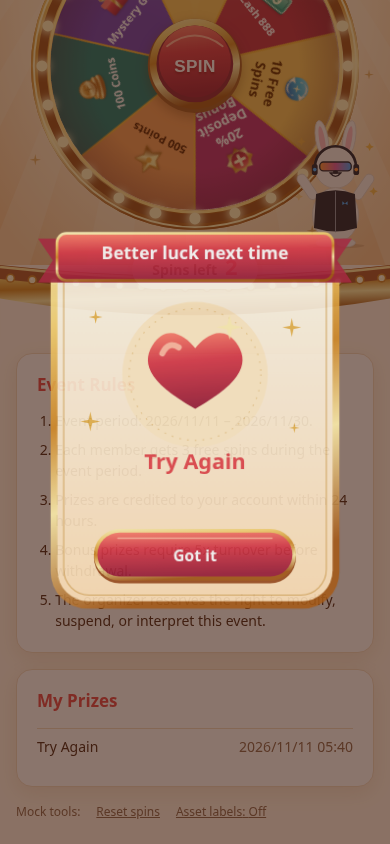
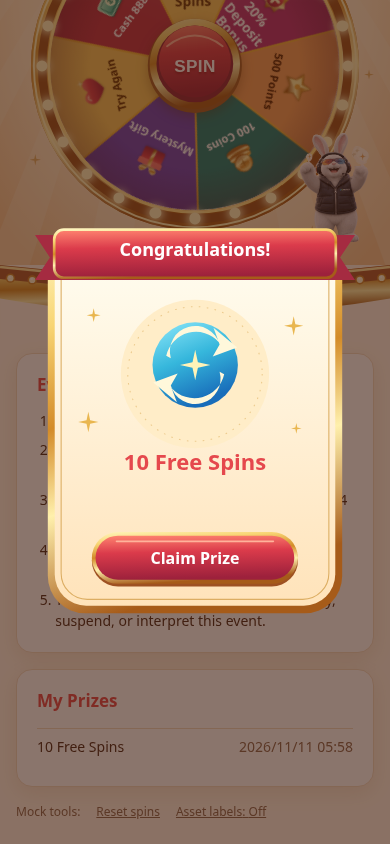
art: verify all five bunny animations and update delivery checklist

diff --git a/event/20261111_lucky_wheel/source/mascot-preview.html b/event/20261111_lucky_wheel/source/mascot-preview.html
@@ -1,0 +1,1 @@
+<!doctype html><html lang="zh-Hant"><meta charset="utf-8"><meta name="viewport" content="width=device-width,initial-scale=1"><title>新版兔子 GIF 預覽</title><style>*{box-sizing:border-box}body{margin:0;background:#fff6ea;color:#18304a;font:16px/1.6 system-ui}main{max-width:1100px;margin:auto;padding:32px}h1{margin:0}header p{color:#536777}section{display:grid;grid-template-columns:repeat(auto-fit,minmax(260px,1fr));gap:20px}article{padding:20px;background:white;border:1px solid #ecdbc8;border-radius:20px;text-align:center}img{display:block;width:240px;max-width:100%;height:300px;object-fit:contain;margin:auto;background:#ffe6cc;border-radius:12px}h2{font-size:18px}a{color:#176697}small{display:block;color:#536777}</style><main><header><h1>Mootech Bunny · 新版動態預覽</h1><p>依已採用的角色設定圖製作。每段 400×500、48 幀、2 秒循環；24 個生成關鍵幀經光流補幀至平均 24fps。</p></header><section><article><h2>待機 1｜呼吸、眨眼</h2><img src="../assets/img/mascot/idle-1.gif" alt="待機 1｜呼吸、眨眼"><small>idle-1.gif</small><a href="mascot-compare/idle-1.png">角色比對圖</a> · <a href="../assets/img/mascot/idle-1.gif" download>下載 GIF</a></article><article><h2>待機 2｜側耳聆聽</h2><img src="../assets/img/mascot/idle-2.gif" alt="待機 2｜側耳聆聽"><small>idle-2.gif</small><a href="mascot-compare/idle-2.png">角色比對圖</a> · <a href="../assets/img/mascot/idle-2.gif" download>下載 GIF</a></article><article><h2>待機 3｜揮手、扶眼鏡</h2><img src="../assets/img/mascot/idle-3.gif" alt="待機 3｜揮手、扶眼鏡"><small>idle-3.gif</small><a href="mascot-compare/idle-3.png">角色比對圖</a> · <a href="../assets/img/mascot/idle-3.gif" download>下載 GIF</a></article><article><h2>抽獎中｜握拳期待</h2><img src="../assets/img/mascot/spinning.gif" alt="抽獎中｜握拳期待"><small>spinning.gif</small><a href="mascot-compare/spinning.png">角色比對圖</a> · <a href="../assets/img/mascot/spinning.gif" download>下載 GIF</a></article><article><h2>結果｜歡呼、比讚</h2><img src="../assets/img/mascot/result.gif" alt="結果｜歡呼、比讚"><small>result.gif</small><a href="mascot-compare/result.png">角色比對圖</a> · <a href="../assets/img/mascot/result.gif" download>下載 GIF</a></article></section></main></html>

diff --git a/event/20261111_lucky_wheel/ART_DELIVERY.md b/event/20261111_lucky_wheel/ART_DELIVERY.md
@@ -1,44 +1,49 @@
-# Lucky Wheel 美術製作：第一階段待審
+# Lucky Wheel 美術交付：新版動畫待審
 
-依據 `c126277` 的 DESIGN_TASKS.md 與 GPT_ASSET_BRIEF.md。此文件記錄本地交付，不代表 GitHub Pages 已更新。
+依最新版製作清單與使用者「用新版設定」指示製作。所有審核欄保留由業主填寫；這份文件不代表正式站已更新。
 
-## 目前交付
+## 交付內容
 
-- 靜態美術初版：21 張 SVG，位於 `assets/img/`；尺寸與原路徑相容。
-- 兔子角色設定圖：`reference/rabbit-turnaround.png`，供第一階段人工比對。
-- 尚未交付新版動態 GIF。最新需求明定角色設定圖通過後才可開始第二階段；前台保留原 SVG 佔位吉祥物。
+- 21 張靜態 SVG、三語標題與六組盤面色票：`6a34f07`。
+- 角色設定圖：`reference/rabbit-turnaround.png`，`6a34f07`；使用者已採用此設定。
+- 5 個透明循環 GIF，均 400×500、48 幀、2 秒；實測檔案 1.24–1.43MB。
+- 240 張含 alpha 的 PNG：`source/mascot-frames/`。
+- 10 張 1024×1536、3×4 原始序列圖：`source/mascot-sheets/`。
+- 5 張關鍵幀與角色設定圖並排比對：`source/mascot-compare/`。
+- 個別動態預覽：`source/mascot-preview.html`。
 
-較早以文字描述產出的動畫不符合新補上的官方服裝與品牌參考，已撤離活動與交付目錄，不應當成正式素材使用。
+| 動作 | GIF／PNG／比對圖 commit |
+|---|---|
+| idle-1：呼吸眨眼 | ee11803 |
+| idle-2：側耳聆聽 | 2b528e9 |
+| idle-3：揮手扶眼鏡 | 8124547 |
+| spinning：握拳期待 | afc4b6b |
+| result：歡呼比讚 | 8971110 |
 
-## 靜態素材
+每個動作包含 24 個生成關鍵幀，利用光流補幀為 48 幀。GIF 以 40／50ms 延遲組合達到平均 24fps；暖色 matte 為 #FFE6CC，落地基準 y=480，歡呼有刻意的 10px 離地位移。這些是 AI 生成序列，不是綁骨骼的 3D 動畫；配件小字、毛髮與姿態可能有細微逐幀變動，需以動態預覽做視覺審核。
 
-舞台背景／地板、英韓泰主標、光束、金框、光澤、指針、抽獎鍵、結果底圖、結果按鈕、音效開關 2 張、獎項圖示 7 張。
+重建方式：`python tools/build_mascot.py <idle-1|idle-2|idle-3|spinning|result>`。需 Pillow、FFmpeg、ImageMagick。
 
-- 三語主標轉為 path，不依賴終端字型；來源文字保留在 `art-source/build_static.py`。
-- 無中文交付素材；除三語主標外沒有語系文字。
-- 金框中央直徑 600 透明，未烘焙燈泡；24 顆燈泡沿用程式。
-- 地板最後 20px 為 `#FFF6EA`；背景中央保持暖亮色，桌機沿用 cover 裁切。
-- 原有內部中文標題與 SVG 吉祥物不是本次新增交付。
+## 使用者需求與證據
 
-| 扇區 | 底色 | 文字 |
-|---|---|---|
-| 1 | #BD3048 | #FFFFFF |
-| 2 | #F7C65C | #5A2A00 |
-| 3 | #B92F73 | #FFFFFF |
-| 4 | #F6A15A | #4A1D00 |
-| 5 | #157D77 | #FFFFFF |
-| 6 | #6941B5 | #FFFFFF |
+| 使用者原話 | 交付證據 | 驗證範圍 | 未驗證 |
+|---|---|---|---|
+| 用新版設定 | 以上五筆 commit；五張角色比對圖 | 官方配色、羽絨背心、左胸徽記、耳麥、裸兔掌目視比對 | 使用者對逐幀美術的最終審核 |
+| 美術製作清單已更新，並給了確認提交方式。請更新 | DELIVERY_CHECKLIST.md 提交欄及逐項 commit | check_assets.py；不改業主審核欄 | 遠端發布 |
+| 每個gif都要讓我看預覽效果 | source/mascot-preview.html 與五個 GIF | Chromium 五個圖皆可播放；兩次取樣畫面不同 | Safari、真實手機 |
 
-分隔線沿用 `#F2B53A`，設定於 `assets/css/event.css`。
+## 驗證紀錄
 
-## 驗證與限制
+`art-source/verification/animation-specs.json`：五組 GIF 尺寸、幀數、時長、檔案大小與 240 張 PNG 規格。
 
-Chromium 檢視 en／ko／th、390px／1440px：沒有橫向溢出或有效圖片載入失敗。抽獎、彈窗關閉、次數用盡、空獎項已操作。localStorage 被拒時英文備援抽獎與音效開關能運作；該情境語言會回英文，未改此既有行為。
+`animation-runtime.json`：五個 GIF 實際播放、待機 1→2→3 輪播，console 無錯誤。
 
-`npm run build` 已成功；活動本身免建置。正式會員／後端 API、Safari、真實手機未驗證。選配音效未另製，保留合成鼓聲。未移除 mock 工具列，未修改獎項／規則文案。
+`browser-results.json`：en／ko／th，各 390px／1440px 無橫向溢出、無破圖；實際抽獎切換 spinning→result、關閉彈窗、次數遞減至禁用、空獎項情境。截圖同目錄。
 
-第二階段待角色審核通過後製作：五個狀態，每個至少兩張 3×4 sprite sheet、400×500 GIF、透明 PNG 序列，以及關鍵幀／設定圖並排比對。
+`loop-metrics.json` 保留循環接點與逐幀差異數值供追蹤；數值不取代人工觀看。
 
-## 發布狀態
+`npm run build` 已執行；此活動免建置。選配三個音效未另製，沿用合成音效。會員／後端 API、正式派獎仍是既有 mock，未修改獎項文案或移除 mock 工具列。
 
-Git 推送檢查回傳 `Permission to mootech-asia/cms_system.git denied to JKson188`（HTTP 403）。尚未推上 main，正式站不含本交付。
+## 發布
+
+先前 Git 推送回傳 `Permission to mootech-asia/cms_system.git denied to JKson188`（HTTP 403）。本地提交／素材交付不等於已上線；以最後的遠端推送與部署結果為準。

diff --git a/event/20261111_lucky_wheel/DELIVERY_CHECKLIST.md b/event/20261111_lucky_wheel/DELIVERY_CHECKLIST.md
@@ -62,7 +62,7 @@
 | ☑ | D02 | idle-2 | 400×500 gif≥24 | `assets/img/mascot/idle-2.gif` | 2b528e9 | ☐ |
 | ☑ | D03 | idle-3 | 400×500 gif≥24 | `assets/img/mascot/idle-3.gif` | 8124547 | ☐ |
 | ☑ | D04 | spinning | 400×500 gif≥24 | `assets/img/mascot/spinning.gif` | afc4b6b | ☐ |
-| ☐ | D05 | result | 400×500 gif≥24 | `assets/img/mascot/result.gif` | | ☐ |
+| ☑ | D05 | result | 400×500 gif≥24 | `assets/img/mascot/result.gif` | 8971110 | ☐ |
 
 ## E. 吉祥物附件（10）
 
@@ -74,18 +74,18 @@
 | ☑ | E02 | idle-2 PNG 序列幀 | 400×500 frames≥24 | `source/mascot-frames/idle-2/` | 2b528e9 | ☐ |
 | ☑ | E03 | idle-3 PNG 序列幀 | 400×500 frames≥24 | `source/mascot-frames/idle-3/` | 8124547 | ☐ |
 | ☑ | E04 | spinning PNG 序列幀 | 400×500 frames≥24 | `source/mascot-frames/spinning/` | afc4b6b | ☐ |
-| ☐ | E05 | result PNG 序列幀 | 400×500 frames≥24 | `source/mascot-frames/result/` | | ☐ |
+| ☑ | E05 | result PNG 序列幀 | 400×500 frames≥24 | `source/mascot-frames/result/` | 8971110 | ☐ |
 | ☑ | E06 | idle-1 關鍵幀 vs 角色設定圖 | — | `source/mascot-compare/idle-1.{png,webp}` | ee11803 | ☐ |
 | ☑ | E07 | idle-2 關鍵幀 vs 角色設定圖 | — | `source/mascot-compare/idle-2.{png,webp}` | 2b528e9 | ☐ |
 | ☑ | E08 | idle-3 關鍵幀 vs 角色設定圖 | — | `source/mascot-compare/idle-3.{png,webp}` | 8124547 | ☐ |
 | ☑ | E09 | spinning 關鍵幀 vs 角色設定圖 | — | `source/mascot-compare/spinning.{png,webp}` | afc4b6b | ☐ |
-| ☐ | E10 | result 關鍵幀 vs 角色設定圖 | — | `source/mascot-compare/result.{png,webp}` | | ☐ |
+| ☑ | E10 | result 關鍵幀 vs 角色設定圖 | — | `source/mascot-compare/result.{png,webp}` | 8971110 | ☐ |
 
 ## F. 程式路徑（1）
 
 | 提交 | # | 項目 | 尺寸 | 交付路徑 | commit | 審核 |
 |---|---|---|---|---|---|---|
-| ☐ | F01 | `config.js` 的 images／mascot 路徑改成實際交付的檔名，前台實際載入無破圖 | — | `assets/js/config.js` | | ☐ |
+| ☑ | F01 | `config.js` 的 images／mascot 路徑改成實際交付的檔名，前台實際載入無破圖 | — | `assets/js/config.js` | 8971110 | ☐ |
 
 ## G. 音效（選配 3）
 
@@ -98,3 +98,8 @@
 ## 備註
 
 （GPT 有疑問或無法照規格交付時寫在這裡，附列號）
+
+- C01：使用者於本對話指示「用新版設定」，已據此進入 D 區；審核欄保留由業主填寫。
+- G01–G03：選配音效未另製，沿用原有程式合成。
+- 提交紀錄目前為本地 Git commit；先前遠端推送回傳 HTTP 403，並不代表已上線。
+- 每個動作使用兩張 12 格原始序列圖（24 個生成幀），以光流補幀為 48 張輸出 PNG；GIF 平均 24fps，2 秒循環。

diff --git a/event/20261111_lucky_wheel/reference/RABBIT_REVIEW.md b/event/20261111_lucky_wheel/reference/RABBIT_REVIEW.md
@@ -18,6 +18,6 @@
 | 12 身高 | 右下對照兔 150cm（不含耳）、熊 200cm、人 175cm；屬概念比例圖 | 使用者已採用新版設定 |
 | 13 禁止事項 | 未見中文、手持麥克風、旗幟、其他公司標誌、伺服器或威嚇表情 | 使用者已採用新版設定 |
 
-依 DESIGN_TASKS.md「第一階段通過才做第二階段」及 GPT_ASSET_BRIEF.md「人工比對」規則，待使用者確認此圖後才製作新版動畫與關鍵幀比對圖。
+依 DESIGN_TASKS.md「第一階段通過才做第二階段」及 GPT_ASSET_BRIEF.md「人工比對」規則，使用者已指示「用新版設定」，已進入新版動畫與關鍵幀比對圖製作。
 
 使用者於本次對話指示「用新版設定」，據此進入第二階段動畫製作。
